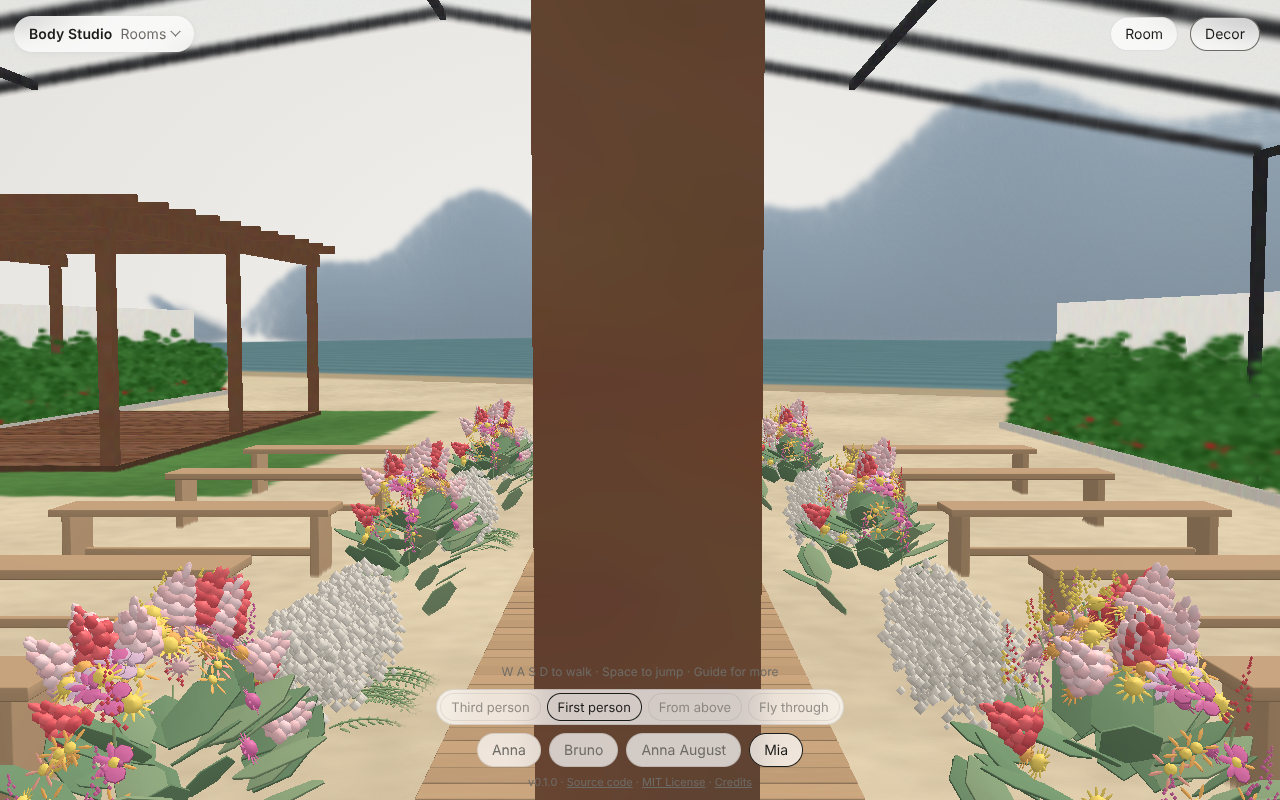
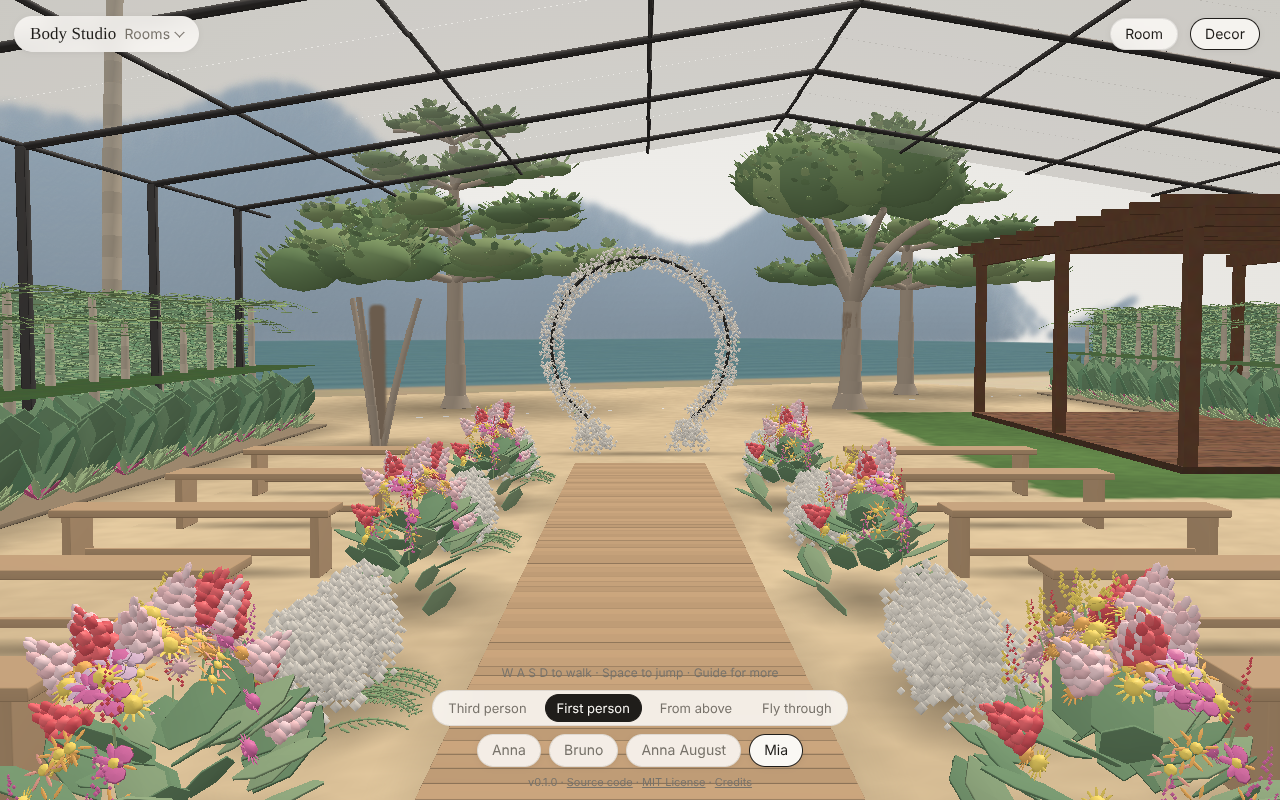
Sample venue: planted walls, beds and glass roof drawn as decor
Four Garden starters (small tree, tropical border, living wall, glass roof)
replace the venue's leaf, bed and cover splats; the trees stand where the
walkthrough shows them (a small tree under the glass, the palms behind the walls).

Claude-Session: https://claude.ai/code/session_01Xqx2s5UaKJRt2DWh7HrbMs

diff --git a/src/body_studio/static/decor.js b/src/body_studio/static/decor.js
@@ -1072,6 +1072,59 @@ function coconutPalm(s, h, seed) {
   }
   for (let k = 0; k < 5; k++) { const a = k * 1.3; ball(s, 0.1, top[0] + 0.2 * Math.sin(a), top[1] - 0.2, top[2] + 0.2 * Math.cos(a), [0.42, 0.33, 0.18], 10); }
 }
+function smallTree(s, h, r, seed) {
+  // a small garden tree: three slim stems from the sand, fanning out, a light open crown
+  const rnd = rng(seed);
+  for (let k = 0; k < 3; k++) {
+    const a = k * 2.1 + 0.3, top = [0.35 * r * Math.sin(a), h * 0.62, 0.35 * r * Math.cos(a)];
+    made("wood", () => limb(s, [0.05 * Math.sin(a), 0, 0.05 * Math.cos(a)], top, 0.06, 0.035, BARK, -0.1, 4));
+  }
+  for (let k = 0; k < 11; k++) {
+    const a = rnd() * 2 * Math.PI, d = Math.sqrt(rnd()) * r * 0.6;
+    clump(s, [d * Math.sin(a), h * 0.72 + (1 - d / r) * h * 0.12 + (rnd() - 0.5) * 0.3, d * Math.cos(a)], r * (0.3 + 0.1 * rnd()), rnd, 0.8);
+  }
+}
+// a small palm or a cycad for a bed: a short trunk, fronds out of its top
+function bedPalm(s, x, z, h, len, n, rnd) {
+  made("wood", () => { for (let k = 0; k < 6; k++) rod(s, [x, h * k / 6, z], [x, h * (k + 1) / 6, z], 0.07 - 0.005 * k, k % 2 ? PALM_BARK : PALM_BARK.map((v) => v * 0.85), 8); });
+  for (let k = 0; k < n; k++) frond(s, [x, h, z], (k / n) * 2 * Math.PI + rnd(), len * (0.8 + 0.3 * rnd()), CANOPY[k % CANOPY.length]);
+}
+// a planted border w long (x) by d deep (z, the front at +z): palms at the back, ferns and
+// monstera leaves in the middle, bromeliads and low leaves at the front, packed so no soil shows
+function border(s, w, d, seed) {
+  const rnd = rng(seed);
+  box(s, w, 0.04, d, 0, 0, 0, [0.3, 0.24, 0.17]);
+  for (let k = 0; k < Math.round(w / 1.0); k++) bedPalm(s, -w / 2 + (k + 0.5) * (w / Math.round(w / 1.0)) + (rnd() - 0.5) * 0.2, -d / 2 + 0.25, 1.2 + 0.9 * rnd(), 1.1, 9, rnd);
+  for (let k = 0; k < Math.round(w * 26); k++) {
+    const x = (rnd() - 0.5) * w * 0.96, z = -d / 2 + 0.3 + rnd() * (d * 0.45), base = [x, 0.04, z];
+    leaf(s, base, tipped(rnd() * 6.28, 0.25 + 0.45 * rnd()), 0.6 + 0.5 * rnd(), 0.32, k % 3 ? DARK_LEAF : MONSTERA);
+  }
+  for (let k = 0; k < Math.round(w * 3); k++) {
+    const x = (rnd() - 0.5) * w * 0.9, z = d / 2 - 0.25 - rnd() * 0.15, red = rnd() < 0.4;
+    for (let j = 0; j < 12; j++) leaf(s, [x, 0.04, z], tipped(j * 2.4 + rnd(), 0.6 + 0.6 * (j / 12)), 0.32, 0.14, red && j % 2 ? CORDYLINE : [0.4, 0.58, 0.32]);
+  }
+}
+// one bay of a glass roof on dark steel: posts at its two ends, a pitched rafter, purlins along,
+// two panes of glass; w along (x), d across (z)
+function roofBay(s, w, d, eave, ridge) {
+  const roof = (z) => eave + (ridge - eave) * (1 - Math.abs(z) / (d / 2));
+  made("metal", () => {
+    for (const z of [-d / 2, d / 2]) box(s, 0.1, eave, 0.1, 0, 0, z, STEEL_DARK);
+    for (const z of [-d / 2, d / 2]) rod(s, [0, roof(z), z], [0, ridge, 0], 0.04, STEEL_DARK, 6);
+    for (const f of [0, 0.25, 0.5, 0.75, 1]) for (const side of [-1, 1]) {
+      const z = side * f * d / 2;
+      rod(s, [-w / 2, roof(z) + 0.02, z], [w / 2, roof(z) + 0.02, z], 0.025, STEEL_DARK, 6);
+    }
+  });
+  made("glass", () => {
+    for (const side of [-1, 1]) {
+      const a = vert(s, -w / 2, ridge + 0.05, 0, GLASS), b = vert(s, w / 2, ridge + 0.05, 0, GLASS);
+      const c = vert(s, w / 2, eave + 0.05, side * d / 2, GLASS), e = vert(s, -w / 2, eave + 0.05, side * d / 2, GLASS);
+      quad(s, a, b, c, e);
+    }
+  });
+}
+const STEEL_DARK = [0.13, 0.13, 0.14];
 // a woven shell (wicker, rattan) of rings and staves: radius r(t) from t = 0 (foot) to 1 (top)
 function woven(s, h, r, cx, cy, cz, col, rings = 8, staves = 14) {
   const at = (t, a) => [cx + r(t) * Math.sin(a), cy + h * t, cz + r(t) * Math.cos(a)];
@@ -1902,6 +1955,32 @@ Object.assign(STARTERS, {
     make(col) { const s = shape(); jute(s, 1.0, col); return s; },
   },
   // trees, as in the venue's garden (and for any garden)
+  small_tree: {
+    group: "garden", height: 3.3, on: "floor", colour: "green", size: { w: 2.4, d: 2.5 }, block: "posts", posts: [[0, 0]],
+    make() { const s = shape(); smallTree(s, 3.2, 1.6, 31); return grounded(s); },
+  },
+  tropical_border: {
+    group: "garden", height: 2.05, on: "floor", colour: "green", size: { w: 3.0, d: 2.2 }, block: true,
+    make() { const s = shape(); border(s, 2.0, 1.3, 41); return grounded(s); },
+  },
+  living_wall: {
+    group: "garden", height: 3.4, on: "floor", colour: "green", size: { w: 2.0, d: 0.3 }, block: true,
+    make() {
+      // a wall planted all over: ferns and leaves on a dark green backing, 3.4 m high
+      const s = shape(), rnd = rng(173);
+      box(s, 2.0, 3.4, 0.08, 0, 0, -0.1, DARK_LEAF);
+      for (let k = 0; k < 1400; k++) {
+        const x = (rnd() - 0.5) * 1.96, y = 0.05 + rnd() * 3.3;
+        leaf(s, [x, y, -0.04], [0.3 * (rnd() - 0.5), -0.35 + 0.4 * rnd(), 0.9].map((v, _, a) => v / Math.hypot(...a)), 0.14 + 0.08 * rnd(), 0.3,
+             [LEAF, DARK_LEAF, PALM, MONSTERA][k % 4]);
+      }
+      return grounded(s);
+    },
+  },
+  glass_roof: {
+    group: "garden", height: 4.85, on: "floor", colour: "black", size: { w: 3.3, d: 16.6 }, block: "posts", posts: [[0, -8.3], [0, 8.3]],
+    make() { const s = shape(); roofBay(s, 3.3, 16.6, 3.4, 4.8); return s; },
+  },
   broad_tree: {
     group: "garden", height: 5.65, on: "floor", colour: "green", size: { r: 2.4 }, block: "posts", posts: [[0.04, 0.03]],
     make() { const s = shape(); broadTree(s, 5.5, 2.6, 11); return grounded(s); },

diff --git a/src/body_studio/static/decorate.js b/src/body_studio/static/decorate.js
@@ -546,7 +546,7 @@ function shade(d, p) {
   const sh = new THREE.Mesh(SHADE_PLANE, SHADE), sz = d.size, w = sz.r !== undefined ? 2 * sz.r : sz.w, dd = sz.r !== undefined ? 2 * sz.r : sz.d;
   sh.rotation.set(-Math.PI / 2, p.turn || 0, 0, "YXZ");
   sh.position.set(p.x, (p.y || 0) - (p.lift || 0) + 0.004, p.z);
-  sh.scale.set(w * 1.35, dd * 1.35, 1);
+  sh.scale.set(w * 1.35 * (p.sx || 1), dd * 1.35 * (p.sz || 1), 1);
   sh.renderOrder = -1;
   shades.add(sh);
 }
@@ -561,14 +561,17 @@ function draw() {
   for (const c of [...shades.children]) shades.remove(c);
   // the room's own trees (its fixtures: the sample venue's), drawn as the decor is but part of the
   // room: not picked, moved or saved
+  // (and its planted walls, borders and glass roof, each stretched along its row by `scale`)
   for (const t of H()?.fixtures()?.trees || []) {
     if (!STARTERS[t.item]) continue;
-    const m = new THREE.Mesh(geomFor({ item: t.item }), mats());
+    const m = new THREE.Mesh(geomFor({ item: t.item }), mats()), sc = t.scale || [1, 1, 1];
     m.position.set(t.at[0], t.at[1], t.at[2]);
     m.rotation.y = t.turn || 0;
+    m.scale.set(sc[0], sc[1], sc[2]);
     m.userData.fixed = true;
     group.add(m);
-    shade(defs(t.item), { x: t.at[0], y: t.at[1], z: t.at[2], turn: t.turn || 0 });
+    // (a roof overhead casts no soft shadow at its feet)
+    if (t.item !== "glass_roof") shade(defs(t.item), { x: t.at[0], y: t.at[1], z: t.at[2], turn: t.turn || 0, sx: sc[0], sz: sc[2] });
   }
   placed().forEach((p, k) => {
     const g = geomFor(p);

diff --git a/src/body_studio/static/i18n.js b/src/body_studio/static/i18n.js
@@ -343,6 +343,10 @@
       "decor.item.woven_wall": "Woven plate wall",
       "decor.item.rattan_sofa": "Rattan sofa",
       "decor.item.rattan_round_chair": "Round rattan chair",
+      "decor.item.small_tree": "Small tree",
+      "decor.item.tropical_border": "Tropical border",
+      "decor.item.living_wall": "Living wall",
+      "decor.item.glass_roof": "Glass roof bay",
       "decor.item.broad_tree": "Broad tree",
       "decor.item.beach_almond": "Beach almond",
       "decor.item.coconut_palm": "Coconut palm",

diff --git a/src/body_studio/sample_venue.py b/src/body_studio/sample_venue.py
@@ -37,7 +37,7 @@ from pathlib import Path
 
 from . import sample_room as base
 
-VERSION = 8
+VERSION = 9
 PLY = "wedding_venue_clean.ply"
 SEED = 23
 
@@ -448,13 +448,9 @@ def kitchen(rnd, out):
 
 
 def green_x(rnd, z, x0, x1, side, out):
-    """A wall of leaves along x at z (the room on its `side`): ferns and ivy, light and dark, the
-    leaves standing out from it."""
+    """A wall of leaves along x at z (the room on its `side`): here only its backing, green; the page
+    draws the planted wall over it (living_wall, from fixtures())."""
     base._surface(rnd, (x0, x1, 0.0, H, z + 0.005 * side, z + 0.005 * side), _greenwall, out, 0.04)
-    for _ in range(int(3000 * (x1 - x0))):
-        x, y = rnd.uniform(x0 + 0.05, x1 - 0.05), rnd.uniform(0.15, H - 0.2)
-        t = rnd.uniform(-0.06, 0.08)
-        out.append(((x, y, z + side * rnd.uniform(0.02, 0.16)), (0.20 + t, 0.40 + t, 0.18 + t), [0.03, 0.03, 0.012]))
 
 
 # ---------------------------------------------------------------- outside: the pergola and the garden
@@ -505,33 +501,29 @@ def garden(rnd, out):
     base._surface(rnd, (PERGOLA[0], GARDEN_X, 0, 0, PERGOLA[3], GARDEN_W), _sand, out, LAWN_STEP)
     # its walls, along the left (on from the house's) and the right, and across beside the pergola,
     # whitewashed, 2 m high, to where the sand starts; tropical beds along them behind a kerb
-    # (living walls, covered in leaves, as the vertical garden's)
+    # (planted all along: the page draws the borders in front of them, from fixtures())
     live = lambda x, y, z, rnd: _greenwall(x, y, z, rnd)
     wall_x(0.0, GARDEN_X, _garden_end(0.0), [], live, out, rnd, h=2.0)
     wall_x(GARDEN_W, PERGOLA[0], _garden_end(GARDEN_W), [], live, out, rnd, h=2.0)
     wall_z(PERGOLA[0], PERGOLA[3], GARDEN_W, [], live, out, rnd, h=2.0)
-    for (z, x0, x1, side) in ((0.0, GARDEN_X, _garden_end(0.0), +1), (GARDEN_W, PERGOLA[0], _garden_end(GARDEN_W), -1)):
-        for _ in range(int(250 * (x1 - x0))):
-            x, y = rnd.uniform(x0, x1), rnd.uniform(0.1, 2.0)
-            t = rnd.uniform(-0.06, 0.08)
-            out.append(((x, y, z + side * rnd.uniform(0.02, 0.14)), (0.20 + t, 0.40 + t, 0.18 + t), [0.04, 0.04, 0.012]))
-    bed_x(rnd, 0.0, GARDEN_X, _garden_end(0.0) - 1.0, +1, out)
-    bed_x(rnd, GARDEN_W, PERGOLA[0] + 1.0, _garden_end(GARDEN_W) - 1.0, -1, out)
-    cover(rnd, out)
+    # the planted beds along the walls: the page draws them (tropical_border); here their tops, a metre
+    # up and green, so the map keeps the body out of them
+    for z0, z1, x0, x1 in ((0.0, 1.5, GARDEN_X, _garden_end(0.0) - 0.5), (GARDEN_W - 1.5, GARDEN_W, PERGOLA[0] + 0.3, _garden_end(GARDEN_W) - 0.5)):
+        base._surface(rnd, (x0, x1, 1.0, 1.0, z0, z1), (0.20, 0.36, 0.17), out, 0.08)
     bungalow(rnd, out)
     for t in TREES:
         trunk(rnd, out, *t)
 
 
-# the trees the walkthrough shows (x, z, the decor starter that draws it): a broad tree in the sand
-# past the rain cover, a big one beside the bungalow, two beach almonds at the sand's edge by the
-# sea, and coconut palms standing out of the beds along the walls. The page draws them as it draws
+# the trees the walkthrough shows (x, z, the decor starter that draws it): a small tree in the sand
+# under the rain cover, a big one beside the bungalow, two beach almonds at the sand's edge by the
+# sea, and coconut palms standing up behind the garden's walls. The page draws them as it draws
 # the decor (decor.js), from the fixtures make() writes; here only their trunks' feet, inside those,
 # so the map walks round them
-TREES = ((44.5, 3.2, "broad_tree"), (52.5, 10.8, "broad_tree"),
+TREES = ((44.5, 3.2, "small_tree"), (52.5, 10.8, "broad_tree"),
          (_garden_end(3.0) + 2.5, 3.0, "beach_almond"), (_garden_end(13.0) + 2.0, 13.0, "beach_almond"),
-         (34.0, 0.6, "coconut_palm"), (47.0, 0.6, "coconut_palm"), (36.0, GARDEN_W - 0.6, "coconut_palm"))
-TRUNK = {"broad_tree": 0.1, "beach_almond": 0.1, "coconut_palm": 0.07}
+         (34.0, -1.4, "coconut_palm"), (47.0, -1.4, "coconut_palm"), (36.0, GARDEN_W + 1.4, "coconut_palm"))
+TRUNK = {"small_tree": 0.05, "broad_tree": 0.1, "beach_almond": 0.1, "coconut_palm": 0.07}
 
 
 def trunk(rnd, out, x, z, item):
@@ -544,53 +536,32 @@ def trunk(rnd, out, x, z, item):
         y += 0.05
 
 
+def _along(item, x0, x1, z, turn, width, depth=0.0):
+    """Copies of a decor starter `width` wide in a row along x from x0 to x1 at z, each stretched a
+    little so the row fits; `depth` out from z (on the side it faces)."""
+    n = max(1, math.ceil((x1 - x0) / width - 0.01))
+    w = (x1 - x0) / n
+    zz = z + depth * math.cos(turn)
+    return [{"item": item, "at": [x0 + (k + 0.5) * w, 0.0, round(zz, 3)], "turn": turn, "scale": [round(w / width, 4), 1, 1]}
+            for k in range(n)]
+
+
 def fixtures() -> dict:
-    """What the page is told besides the splat (room.py's map, in its metres): the trees."""
-    return {"trees": [{"item": item, "at": [x, 0.0, z]} for x, z, item in TREES]}
-
-
-def bed_x(rnd, z, x0, x1, side, out):
-    """A planted bed along a wall at z (the garden on its `side`), 1.2 m deep: palms, ferns and
-    bromeliads in many greens, a few red, 1 to 1.6 m high, a scalloped cement kerb along its front."""
-    deep = 1.2
-    base._surface(rnd, (x0, x1, 0.0, 0.0, *sorted((z, z + side * deep))), (0.30, 0.24, 0.17), out, 0.08)
-    for _ in range(int(320 * (x1 - x0))):
-        x, d = rnd.uniform(x0, x1), rnd.uniform(0.05, deep - 0.1)
-        top = 1.0 + 0.6 * (1 - d / deep) * math.sin(x * 1.9) ** 2
-        y = rnd.uniform(0.05, top)
-        t = rnd.uniform(-0.07, 0.08)
-        c = (0.62, 0.14, 0.13) if rnd.random() < 0.03 and y < 0.5 else (0.17 + t, 0.38 + t * 1.3, 0.14 + t)
-        out.append(((x, y, z + side * d), c, [0.05, 0.03, 0.05]))
-    zk = z + side * deep
-    for k in range(int((x1 - x0) / 0.3)):
-        a = x0 + k * 0.3
-        base._surface(rnd, (a + 0.02, a + 0.28, 0.0, 0.12, zk - 0.04, zk + 0.04), (0.72, 0.70, 0.66), out, 0.05)
-
-
-def cover(rnd, out):
-    """The garden's rain cover, from the pergola on: a pitched glass roof on dark steel rafters,
-    the posts in the beds along the walls."""
-    x0, x1, z0, z1 = GARDEN_X, GARDEN_X + COVER_LEN, 0.6, GARDEN_W - 0.6
-    eave, ridge, zm = 3.4, 4.8, (z0 + z1) / 2
-    roof = lambda z: eave + (ridge - eave) * (1 - abs(z - zm) / ((z1 - z0) / 2))
-    bars = [x0 + 0.05 + k * (x1 - x0 - 0.1) / 6 for k in range(7)]
-    for x in bars:
-        for z in (z0, z1):
-            base._surface(rnd, (x - 0.05, x + 0.05, 0.0, eave, z - 0.05, z + 0.05), STEEL, out, 0.05)
-        for k in range(int((z1 - z0) / 0.03)):
-            z = z0 + (k + 0.5) * 0.03
-            out.append(((x, roof(z), z), STEEL, [0.03, 0.04, 0.02]))
-    for z in (z0, z1, zm, (z0 + zm) / 2, (zm + z1) / 2):   # the eaves' beams, the purlins and the ridge
-        base._surface(rnd, (x0, x1, roof(z) - 0.08, roof(z), z - 0.03, z + 0.03), STEEL, out, 0.05)
-    # the glass: faint, so the sky shows through it (and the map leaves it out)
-    # (open round a tree that stands up through it)
-    holes = [(t[0], t[1]) for t in TREES if x0 < t[0] < x1]
-    for k in range(int((x1 - x0) / 0.3)):
-        for m in range(int((z1 - z0) / 0.3)):
-            x, z = x0 + (k + rnd.random()) * 0.3, z0 + (m + rnd.random()) * 0.3
-            if any(math.hypot(x - a, z - b) < 2.4 for a, b in holes):
-                continue
-            out.append(((x, roof(z) + 0.02, z), (0.86, 0.91, 0.93), [0.22, 0.01, 0.22], 0.06))
+    """What the page is told besides the splat (room.py's map, in its metres): the trees, and the
+    things it draws as it draws the decor (decor.js starters), so they look as the decor does: the
+    planted walls, the borders along the garden's walls and the glass rain cover over it."""
+    props = [{"item": item, "at": [x, 0.0, z]} for x, z, item in TREES]
+    for x0, x1 in (VERTICAL[:2], ANTE[:2]):
+        props += _along("living_wall", x0, x1, 0.0, 0.0, 2.0, 0.15)
+        props += _along("living_wall", x0 + (0.3 if x0 == ANTE[0] else 0.0), x1 - (0.3 if x0 == ANTE[0] else 0.0), 4.0, math.pi, 2.0, 0.15)
+    # the garden's walls, 2 m high, planted all over too, the beds in front of them
+    for z, turn, x0 in ((0.0, 0.0, GARDEN_X), (GARDEN_W, math.pi, PERGOLA[0])):
+        props += [dict(p, scale=[p["scale"][0], round(2.0 / 3.4, 4), 1]) for p in _along("living_wall", x0, _garden_end(z), z, turn, 2.0, 0.15)]
+        props += _along("tropical_border", x0 + 0.3, _garden_end(z) - 0.5, z, turn, 2.0, 0.95)
+    bays = round(COVER_LEN / 3.3)
+    props += [{"item": "glass_roof", "at": [round(GARDEN_X + (k + 0.5) * COVER_LEN / bays, 3), 0.0, GARDEN_W / 2],
+               "scale": [round(COVER_LEN / bays / 3.3, 4), 1, 1]} for k in range(bays)]
+    return {"trees": props}
 
 
 def beach(rnd, out):

diff --git a/tests/unit/test_sample_venue.py b/tests/unit/test_sample_venue.py
@@ -53,7 +53,7 @@ class SampleVenueTest(unittest.TestCase):
         # as a few stray splats would be)
         long = V.GARDEN_X + (V.GARDEN_LEFT + V.GARDEN_RIGHT) / 2 + V.BEACH - V.DECK[0]
         self.assertAlmostEqual(self.map["nx"] * self.map["cell"], long + 0.4, delta=3.0)
-        self.assertAlmostEqual(self.map["nz"] * self.map["cell"], V.GARDEN_W + 0.4, delta=1.5)   # (the beach is slanted)
+        self.assertAlmostEqual(self.map["nz"] * self.map["cell"], V.GARDEN_W + 0.4, delta=2.0)   # (the beach is slanted, and is more of the splats now the garden is drawn by the page)
         self.assertLess(self.map["cell"], 0.11, "cells small enough for doorways, long as it is")
         self.assertLess(self.map["splats"], 900_000)
 
@@ -86,8 +86,10 @@ class SampleVenueTest(unittest.TestCase):
         # trees are the ones the walkthrough shows, in the garden and on the beach)
         self.assertTrue(all(t[0] > V.GARDEN_X for t in V.TREES))
         # the page draws them as decor (starters), where the map says; the body walks round their trunks
-        trees = self.map["fixtures"]["trees"]
-        self.assertEqual(len(trees), len(V.TREES))
+        props = self.map["fixtures"]["trees"]
+        trees = props[:len(V.TREES)]
+        # and the planted walls, the beds' borders and the glass roof, as decor too
+        self.assertEqual({t["item"] for t in props[len(V.TREES):]}, {"living_wall", "tropical_border", "glass_roof"})
         for t, (x, z, item) in zip(trees, V.TREES):
             self.assertEqual(t["item"], item)
             mx, mz = self.to_map(x, z)
@@ -139,14 +141,11 @@ class SampleVenueTest(unittest.TestCase):
         self.assertNotEqual(brick(0, 0.04, 0.05, rnd), brick(0, 0.115, 0.05, rnd))
         self.assertEqual(brick(0, 0.04, 0.221, rnd), brick(0, 0.115, 0.111, rnd))
         rows = V.splats()
-        # the stage's screen, the pergola's reed roof, the garden's glass cover seen through (and so
-        # not mapped)
+        # the stage's screen, the pergola's reed roof (the garden's glass cover is the page's: no splats)
         x0, x1, z0, z1 = V.PERGOLA
         reed = [r for r in rows if x0 < r[0][0] < x1 and z0 < r[0][2] < z1 and abs(r[0][1] - V.PERGOLA_ROOF - 0.01) < 1e-6]
         self.assertGreater(len(reed), 20000)
-        glass = [r for r in rows if V.GARDEN_X < r[0][0] < V.GARDEN_X + V.COVER_LEN and r[0][1] > 3.4 and len(r) > 3]
-        self.assertGreater(len(glass), 1000)
-        self.assertTrue(all(r[3] < room.OPAQUE for r in glass))
+        self.assertFalse([r for r in rows if V.GARDEN_X < r[0][0] < V.GARDEN_X + V.COVER_LEN and r[0][1] > 3.2])
         screen = [r for r in rows if abs(r[0][2] - 0.06) < 1e-6 and V.STAGE[0] < r[0][0] < V.STAGE[1] and min(r[1]) > 0.8]
         self.assertGreater(len(screen), 1000)
 

diff --git a/src/body_studio/decor.py b/src/body_studio/decor.py
@@ -144,6 +144,10 @@ STARTERS = (
     {"id": "woven_wall", "group": "ceremony", "height": 2.4, "on": "floor"},
     {"id": "rattan_sofa", "group": "lounge", "height": 0.8, "on": "floor"},
     {"id": "rattan_round_chair", "group": "lounge", "height": 0.82, "on": "floor"},
+    {"id": "small_tree", "group": "garden", "height": 3.3, "on": "floor"},
+    {"id": "tropical_border", "group": "garden", "height": 2.05, "on": "floor"},
+    {"id": "living_wall", "group": "garden", "height": 3.4, "on": "floor"},
+    {"id": "glass_roof", "group": "garden", "height": 4.85, "on": "floor"},
     {"id": "broad_tree", "group": "garden", "height": 5.65, "on": "floor"},
     {"id": "beach_almond", "group": "garden", "height": 5.89, "on": "floor"},
     {"id": "coconut_palm", "group": "garden", "height": 8.34, "on": "floor"},

diff --git a/docs/room.md b/docs/room.md
@@ -112,10 +112,12 @@ left, sand inside low living walls of leaves with tropical beds along them, a gl
 to the end of its wall, the bungalow: an open wooden deck under a timber frame), then the beach: 8 m
 of dry sand beyond the garden's slanted far side, the wet sand, the sea and the island's hills
 across it. What each surface is made of comes from the venue's photos and a walkthrough filmed
-there. The trees are the ones the walkthrough shows (two broad trees, two beach almonds,
-three palms in the beds), drawn by the page as the decor is (the Garden starters), from the
-venue's fixtures; the splat has only their trunks' feet, for the map. The file is written mirrored (z to -z) so that, as the page turns the
-y-down file round, the kitchen and the bungalow are on the right as you walk in, as on the plan. About 860,000 splats. It is
+there. The trees are the ones the walkthrough shows (a small tree under the glass roof, a broad
+tree by the bungalow, two beach almonds, three palms standing up behind the garden's walls). They,
+the planted walls, the tropical beds and the glass roof are drawn by the page as the decor is (the
+Garden starters), from the venue's fixtures; the splat has only what the map needs of them (the
+trunks' feet, flat green walls, the beds' tops a metre up). The file is written mirrored (z to -z) so that, as the page turns the
+y-down file round, the kitchen and the bungalow are on the right as you walk in, as on the plan. About 730,000 splats. It is
 mapped when it is made (about 20 s, in the same background process), so the page doesn't wait; the
 sea and the hills are drawn faint enough to be left out of the map, so they don't make it bigger.
 Its map cells are about 10 cm (a long place gets as many cells as a square one of the same floor

diff --git a/CHANGELOG.md b/CHANGELOG.md
@@ -2,6 +2,10 @@
 
 ## 0.1.0 (unreleased)
 
+- The sample venue's planted walls, garden beds and glass rain cover are drawn as the decor is
+  (four new Garden starters: small tree, tropical border, living wall, glass roof), not as leaf
+  splats. As the walkthrough shows, only a small tree stands under the glass; the palms stand
+  behind the garden's walls.
 - One look on every panel, taken from Decor: ink on warm paper, hairlines, serif titles. Picked
   chips are inked with a card behind them, Save and Add are filled, Remove and Delete turn red on
   hover, every panel closes with the same round x. Blue is kept for focus and charts.
